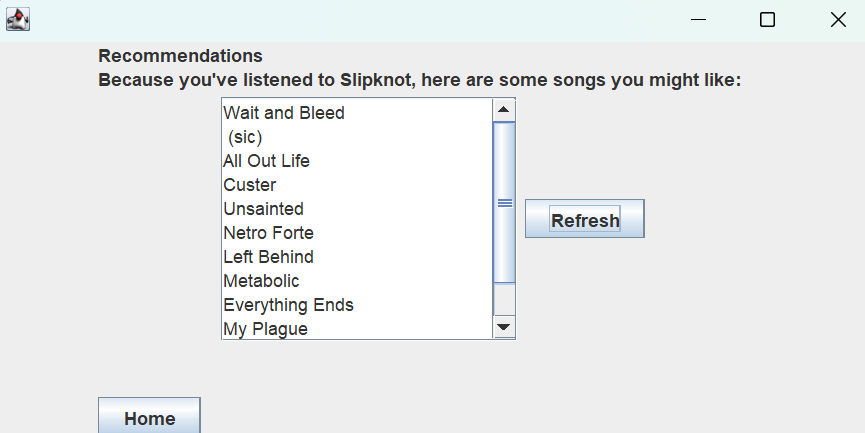
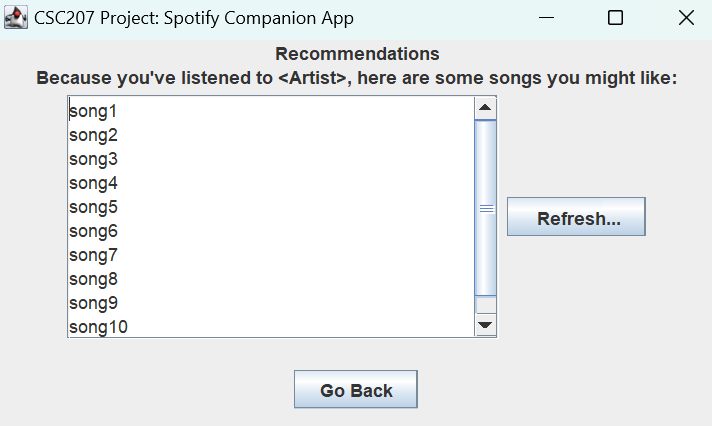
adding screen image

diff --git a/src/main/java/view/RecommendationsView.java b/src/main/java/view/RecommendationsView.java
@@ -3,7 +3,9 @@ package view;
 import java.awt.*;
 import java.beans.PropertyChangeEvent;
 import java.beans.PropertyChangeListener;
+import java.util.Objects;
 
+import javax.imageio.ImageIO;
 import javax.swing.*;
 
 import interface_adapter.recommend.RecommendController;
@@ -15,34 +17,40 @@ import interface_adapter.recommend.RecommendViewModel;
  */
 public class RecommendationsView extends JPanel implements PropertyChangeListener {
 
-    private final String viewName = "logged in";
+    private final String viewName = "recommendations";
     private final RecommendViewModel recommendViewModel;
     private RecommendController recommendController;
 
-    private final JLabel description;
-    private final JPanel songsPanel;
+    private final JButton refreshButton;
+    private final JTextArea songsTextArea;
     private final JButton homeButton;
 
     public RecommendationsView(RecommendViewModel recommendViewModel) {
         this.recommendViewModel = recommendViewModel;
-        this.recommendViewModel.addPropertyChangeListener(this);
+//        this.recommendViewModel.addPropertyChangeListener(this);
 
         final JLabel title = new JLabel("Recommendations");
-        description = new JLabel("Because you've listened to " + getArtist()
-                + ", here are some songs you might like:");
-        homeButton = new JButton("Home");
+        final JPanel titlePanel = new JPanel();
+        titlePanel.add(title);
 
-        songsPanel = new JPanel();
-        final ImageIcon refreshImg = new ImageIcon(getClass().getResource("/images/refresh.png"));
-        final JButton refreshButton = new JButton();
+        final JLabel description = new JLabel("Because you've listened to " + getArtist()
+                + ", here are some songs you might like:");
+        final JPanel descriptionPanel = new JPanel();
+        descriptionPanel.add(description);
+
+        homeButton = new JButton("go back");
+        final JPanel homeButtonPanel = new JPanel();
+        homeButtonPanel.add(homeButton);
+
+        final JPanel songsPanel = new JPanel();
+        final ImageIcon refreshImg = new ImageIcon(Objects.requireNonNull(getClass().getResource("images/refresh.png")));
+        refreshButton = new JButton("Refresh");
         refreshButton.setIcon(refreshImg);
-        final JTextArea songsTextArea = new JTextArea(10, 20);
+        songsTextArea = new JTextArea(10, 30);
         songsTextArea.setText("TO DO: Get songs to show here");
         final JScrollPane songsScrollPane = new JScrollPane(songsTextArea);
         songsPanel.add(songsScrollPane);
         songsPanel.add(refreshButton);
-
-        this.setLayout(new BoxLayout(this, BoxLayout.Y_AXIS));
 
 //        changePassword.addActionListener(
 //                // This creates an anonymous subclass of ActionListener and instantiates it.
@@ -59,12 +67,12 @@ public class RecommendationsView extends JPanel implements PropertyChangeListene
 //        );
         final JPanel panel = new JPanel();
         panel.setLayout(new BoxLayout(panel, BoxLayout.Y_AXIS));
-        panel.add(title);
-        panel.add(description);
+        panel.add(titlePanel);
+        panel.add(descriptionPanel);
         panel.add(songsPanel);
-        panel.add(homeButton);
+        panel.add(homeButtonPanel);
 
-        this.add(panel, BorderLayout.CENTER);
+        this.add(panel);
     }
 
     @Override

diff --git a/src/main/java/use_case/recommend/RecommendInteractor.java b/src/main/java/use_case/recommend/RecommendInteractor.java
@@ -15,18 +15,18 @@ public class RecommendInteractor implements RecommendInputBoundary {
         this.recommendPresenter = recommendOutputBoundary;
     }
 
-    @Override
-    public void execute(RecommendInputData recommendInputData) {
-        final String username = recommendInputData.getLoginToken();
-        if (!recommendDataAccessObject.existsByName(username)) {
-            recommendPresenter.prepareFailView(username + ": Account does not exist.");
-        }
-        else {
-            final String accessToken = recommendDataAccessObject.get(username).getName();
-            final User user = userDataAccessObject.get(loginInputData.getLoginToken());
-            userDataAccessObject.setCurrentUsername(user.getName());
-            final LoginOutputData loginOutputData = new LoginOutputData(user.getName(), false);
-            loginPresenter.prepareSuccessView(loginOutputData);
-        }
-    }
+//    @Override
+//    public void execute(RecommendInputData recommendInputData) {
+//        final String username = recommendInputData.getLoginToken();
+//        if (!recommendDataAccessObject.existsByName(username)) {
+//            recommendPresenter.prepareFailView(username + ": Account does not exist.");
+//        }
+//        else {
+//            final String accessToken = recommendDataAccessObject.get(username).getName();
+//            final User user = userDataAccessObject.get(loginInputData.getLoginToken());
+//            userDataAccessObject.setCurrentUsername(user.getName());
+//            final LoginOutputData loginOutputData = new LoginOutputData(user.getName(), false);
+//            loginPresenter.prepareSuccessView(loginOutputData);
+//        }
+//    }
 }

diff --git a/src/main/java/data_access/DBUserDataAccessObject.java b/src/main/java/data_access/DBUserDataAccessObject.java
@@ -15,13 +15,12 @@ import okhttp3.Response;
 // import use_case.change_password.ChangePasswordUserDataAccessInterface;
 import use_case.login.LoginUserDataAccessInterface;
 import use_case.logout.LogoutUserDataAccessInterface;
-import use_case.signup.SignupUserDataAccessInterface;
 
 /**
  * The DAO for user data.
  */
-public class DBUserDataAccessObject implements SignupUserDataAccessInterface,
-        LoginUserDataAccessInterface, LogoutUserDataAccessInterface {
+public class DBUserDataAccessObject implements LoginUserDataAccessInterface,
+        LogoutUserDataAccessInterface {
     private static final int SUCCESS_CODE = 200;
     private static final String CONTENT_TYPE_LABEL = "Content-Type";
     private static final String CONTENT_TYPE_JSON = "application/json";

diff --git a/src/main/java/data_access/FileUserDataAccessObject.java b/src/main/java/data_access/FileUserDataAccessObject.java
@@ -12,15 +12,12 @@ import java.util.Map;
 
 import entity.User;
 import entity.UserFactory;
-import use_case.change_password.ChangePasswordUserDataAccessInterface;
 import use_case.login.LoginUserDataAccessInterface;
-import use_case.signup.SignupUserDataAccessInterface;
 
 /**
  * DAO for user data implemented using a File to persist the data.
  */
-public class FileUserDataAccessObject implements SignupUserDataAccessInterface,
-                                                 LoginUserDataAccessInterface {
+public class FileUserDataAccessObject implements LoginUserDataAccessInterface {
 
     private static final String HEADER = "accessToken";
 
